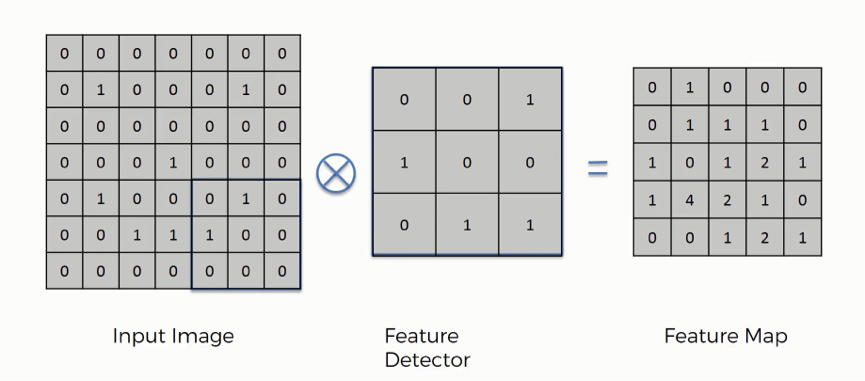
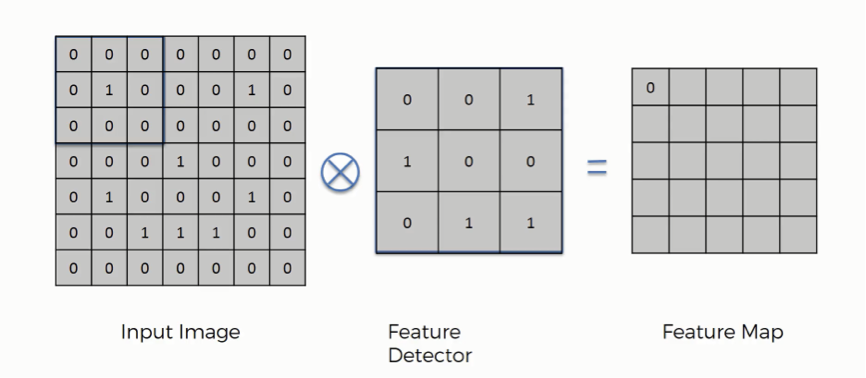
GitBook: [master] one page and 4 assets modified

diff --git a/cnn.md b/cnn.md
@@ -36,13 +36,13 @@
 * Convolutional Neural Network
 * Output label \(image class\)
 
-#### Steps
+### Steps
 
-* Convolution
-* ReLU layer
-* Pooling
-* Flatening
-* Full Connection
+* _Convolution_
+* _ReLU layer_
+* _Pooling_
+* _Flatening_
+* _Full Connection_
 
 ### Step 1-1: Convolution
 
@@ -58,13 +58,45 @@
 * Stride만큼 이동, 같은 연산을 하여 feature map의 cell에 값을 삽입; 반복
 * 한 행에 대해 연산이 끝나면 다음 행으로 이동하여 반복
 
-![&#xD569;&#xC131;&#xACF1; &#xC5F0;&#xC0B0; &#xC2DC;&#xC791; &#xB2E8;&#xACC4;](.gitbook/assets/image%20%2815%29.png)
+![&#xD569;&#xC131;&#xACF1; &#xC5F0;&#xC0B0; &#xC2DC;&#xC791; &#xB2E8;&#xACC4;](.gitbook/assets/image%20%2816%29.png)
 
-![&#xD569;&#xC131;&#xACF1; &#xC5F0;&#xC0B0; &#xB9C8;&#xC9C0;&#xB9C9; &#xB2E8;&#xACC4;](.gitbook/assets/image%20%2816%29.png)
+![&#xD569;&#xC131;&#xACF1; &#xC5F0;&#xC0B0; &#xB9C8;&#xC9C0;&#xB9C9; &#xB2E8;&#xACC4;](.gitbook/assets/image%20%2818%29.png)
 
 ### Step 1-2: ReLU\(**Rectified Linear Unit**\) layer
 
 이미지의 비선형성을 추가하기 위해 사용하는 활성화 함수 중 하나로, ReLU, Leaky ReLU, Randomized Leaky ReLU의 세 종류가 있음.
+
+#### ReLU
+
+![](.gitbook/assets/image%20%2815%29.png)
+
+* 0 이하의 값이 들어오면 활성화 값을 0으로, 그 이상의 값은 _그대로 전달,_ 따라서 sigmoid function에 비해 계산 속도가 매우 빨라짐.
+* **dying neuron**: 손실이 커져 가중치, 편차\(weight, bias\)가 음의 값이 되면 어떠한 입력에도 활성화 값이 0이 되기 때문에,  neuron의 업데이트가 멈춤
+* 학습속도가 빠름\(기울기가 1이라서?\)
+
+#### Leaky ReLU
+
+![](.gitbook/assets/image%20%2817%29.png)
+
+위의 dying neuron 문제를 해결하기 위해 0 이하인 입력에 대해 입력값에 a를 곱한 값\(일반적으로 0.01로 설정한다고 함\)을 출력으로 내보냄.
+
+#### Randomized leaky ReLU
+
+leaky ReLU의 a값을 임의로 지정하여 출력을 내보내는 ReLU
+
+### Step 2: Pooling
+
+* Average pooling
+* Max pooling
+* Sum pooling
+
+#### Max Pooling
+
+> The purpose of max pooling is enabling the convolutional neural network to detect the given image when presented with the image in any manner.
+
+이미지의 구간에서 maximum value를 찾아 pooled feature map에 삽입, "가장 강한 자극만 남기고 나머지 무시, 가장 비슷한 부분을 전달하는 방식"
+
+You would **still proceed despite the fact that half of your box will be empty**.
 
 
 
